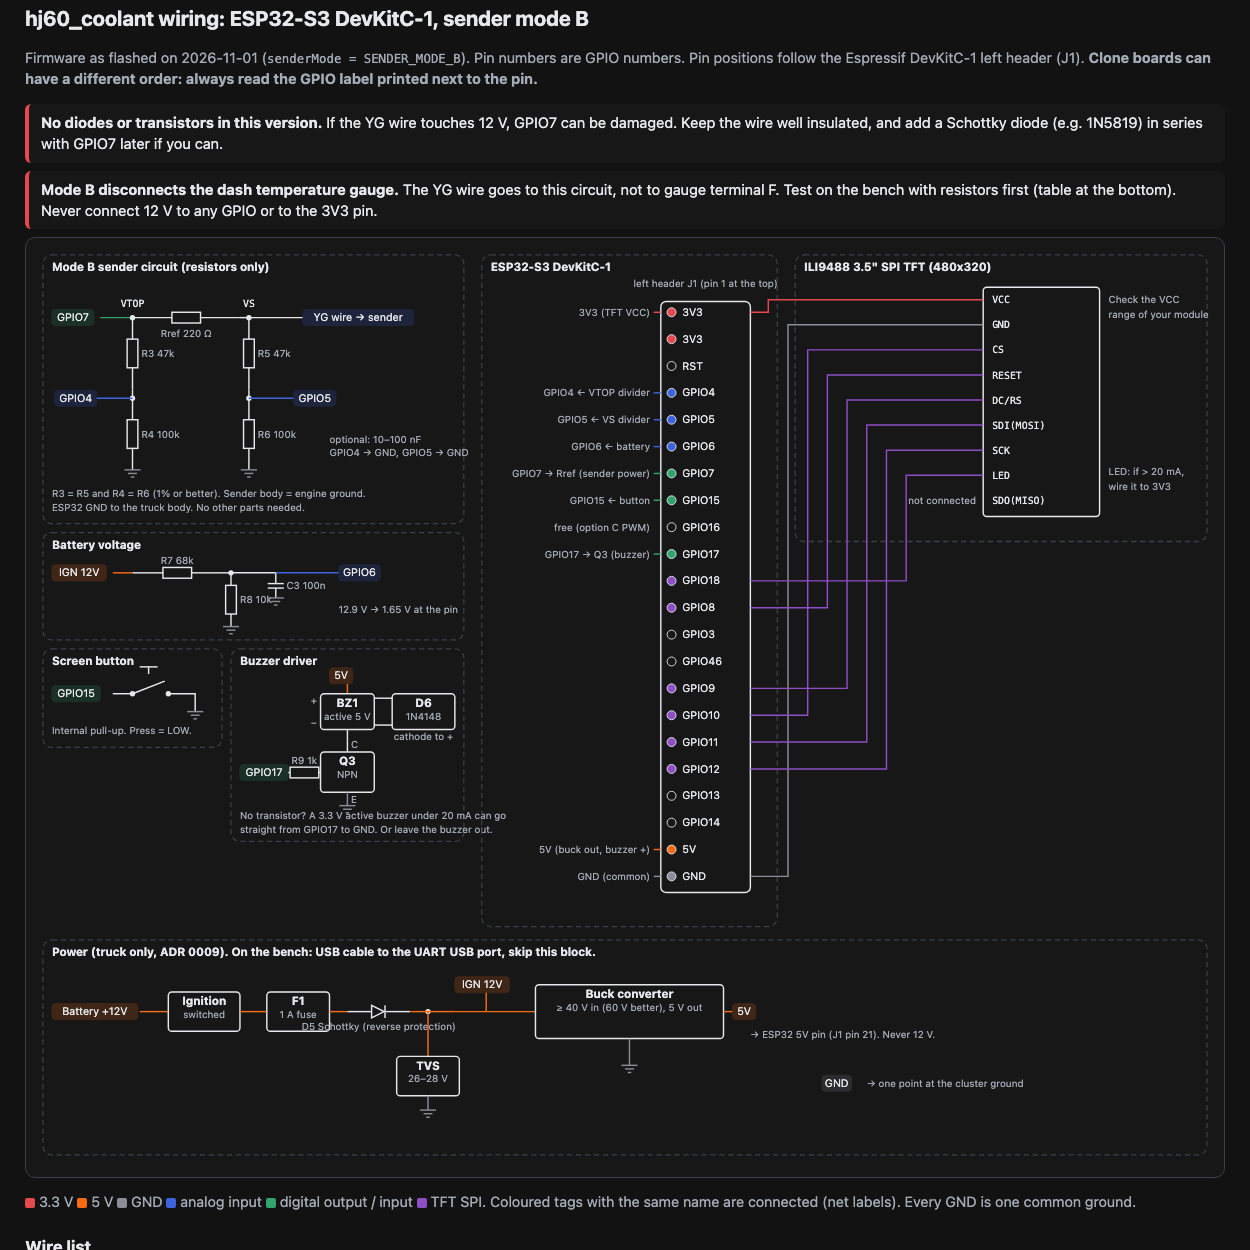
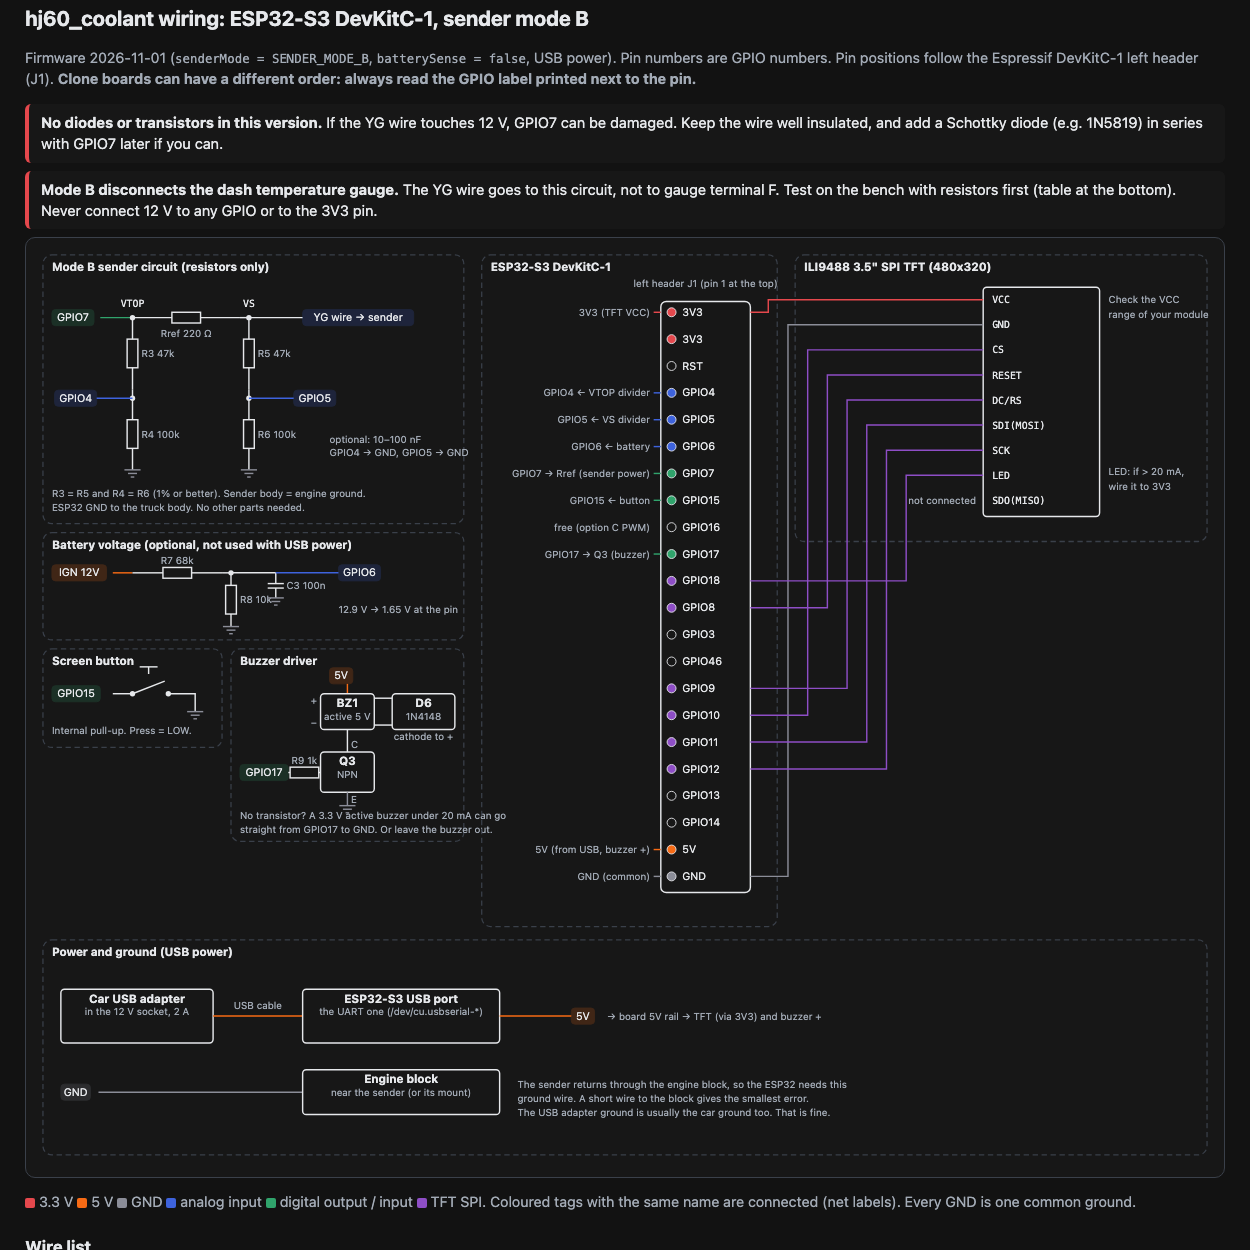
hj60_coolant: USB power; batterySense switch (default off), ground to engine block
Owner powers the ESP32 and TFT from a car USB adapter and shares the ground
with the sender. Without a battery divider the BATT tile now shows USB
instead of noise. Wiring diagram power block, hardware page, architecture
and README updated. 40 native tests, Wokwi PASS.

diff --git a/projects/hj60_coolant/docs/html/wiring-diagram.html b/projects/hj60_coolant/docs/html/wiring-diagram.html
@@ -44,7 +44,7 @@
 <body>
 <div class="wrap">
 <h1>hj60_coolant wiring: ESP32-S3 DevKitC-1, sender mode B</h1>
-<p class="sub">Firmware as flashed on 2026-11-01 (<code>senderMode = SENDER_MODE_B</code>). Pin numbers are GPIO numbers.
+<p class="sub">Firmware 2026-11-01 (<code>senderMode = SENDER_MODE_B</code>, <code>batterySense = false</code>, USB power). Pin numbers are GPIO numbers.
 Pin positions follow the Espressif DevKitC-1 left header (J1). <b>Clone boards can have a different order: always
 read the GPIO label printed next to the pin.</b></p>
 <div class="warn"><b>No diodes or transistors in this version.</b> If the YG wire touches 12 V, GPIO7 can be damaged.
@@ -79,17 +79,17 @@ Coloured tags with the same name are connected (net labels). Every GND is one co
   <tr><td>12</td><td>GPIO7</td><td>47 kΩ → GPIO4 → 100 kΩ → GND</td><td>Measures the GPIO7 side of Rref (Vtop).</td></tr>
   <tr><td>13</td><td>VS</td><td>47 kΩ → GPIO5 → 100 kΩ → GND</td><td>Measures the sender side (Vs). Use the same resistor values as wire 12, 1% or better.</td></tr>
   <tr><td>14</td><td>GPIO4, GPIO5</td><td>10–100 nF to GND (optional)</td><td>Reduces noise. Leave out if you have no capacitors.</td></tr>
-  <tr><td>15</td><td>IGN 12 V (after the fuse)</td><td>R7 68 kΩ → GPIO6 → R8 10 kΩ → GND</td><td>Plus C3 100 nF (optional). Battery voltage.</td></tr>
+  <tr><td>15</td><td>(optional) car 12 V, fused</td><td>R7 68 kΩ → GPIO6 → R8 10 kΩ → GND</td><td>Not needed with USB power. If you add it, set <code>batterySense = true</code> and flash again.</td></tr>
   <tr><td>16</td><td>GPIO15</td><td>Push button → GND</td><td>Next screen. Internal pull-up, no resistor needed.</td></tr>
   <tr><td>17</td><td>GPIO17</td><td>R9 1 kΩ → Q3 base</td><td>Q3 = NPN. Collector to buzzer −, emitter to GND.</td></tr>
   <tr><td>18</td><td>5V</td><td>Buzzer +</td><td>D6 1N4148 across the buzzer, cathode to +5 V.</td></tr>
-  <tr><td>19</td><td>Buck converter 5 V out</td><td>ESP32 5V pin</td><td>In the truck only. On the bench, use the USB port of the UART bridge.</td></tr>
-  <tr><td>20</td><td>ESP32 GND</td><td>Cluster ground</td><td>One ground point, near the instrument cluster.</td></tr>
+  <tr><td>19</td><td>Car USB adapter (12 V socket)</td><td>ESP32 USB port (the UART one)</td><td>Powers the ESP32 and the TFT. Use a 2 A adapter and a short data-quality cable.</td></tr>
+  <tr><td>20</td><td>ESP32 GND</td><td>Engine block, near the sender</td><td>Needed: the sender returns through the engine block. A short wire to the block (or the sender mount) gives the smallest error. A body ground also works if the engine ground strap is good.</td></tr>
 </table>
 
 <h2>Bench test without the truck</h2>
 <p class="sub">Power the board from USB. Connect a resistor between node VS (the YG wire end) and GND in place of the
-sender. The battery reads about 0 V without 12 V on wire 15, which is normal on the bench.</p>
+sender. The BATT tile shows USB, because <code>batterySense</code> is off.</p>
 <table>
   <tr><th>Resistor in place of the sender</th><th>Expected reading</th><th>State</th></tr>
   <tr><td>150 Ω</td><td>~61 °C</td><td>OK (your engine-warm measurement)</td></tr>
@@ -175,7 +175,7 @@ better. Readings within a few °C are normal before the step M5 calibration (<co
   txt(20, 280, 'R3 = R5 and R4 = R6 (1% or better). Sender body = engine ground.', 's');
   txt(20, 296, 'ESP32 GND to the truck body. No other parts needed.', 's');
 
-  block(10, 320, 470, 120, 'Battery voltage');
+  block(10, 320, 470, 120, 'Battery voltage (optional, not used with USB power)');
   net(20, 365, 'IGN 12V', C.v5);
   wire([[88, 365], [110, 365]], C.v5);
   res(110, 365, 210, 365, 'R7 68k');
@@ -226,7 +226,7 @@ better. Readings within a few °C are normal before the step M5 calibration (<co
     '6': ['GPIO6 ← battery', C.adc], '7': ['GPIO7 → Rref (sender power)', C.out], '15': ['GPIO15 ← button', C.out],
     '16': ['free (option C PWM)', null], '17': ['GPIO17 → Q3 (buzzer)', C.out], '18': ['TFT LED', C.spi], '8': ['TFT RESET', C.spi],
     '9': ['TFT DC/RS', C.spi], '10': ['TFT CS', C.spi], '11': ['TFT SDI (MOSI)', C.spi], '12': ['TFT SCK', C.spi],
-    '5V': ['5V (buck out, buzzer +)', C.v5], 'GND': ['GND (common)', C.gnd]
+    '5V': ['5V (from USB, buzzer +)', C.v5], 'GND': ['GND (common)', C.gnd]
   };
   const pinY = {};
   J1.forEach((p, i) => {
@@ -261,30 +261,21 @@ better. Readings within a few °C are normal before the step M5 calibration (<co
   txt(1200, 272, 'wire it to 3V3', 's');
 
   // ================= Power =================
-  block(10, 775, 1300, 240, 'Power (truck only, ADR 0009). On the bench: USB cable to the UART USB port, skip this block.');
-  const py = 855;
-  net(20, py, 'Battery +12V', C.v5);
-  wire([[118, py], [150, py]], C.v5);
-  box(150, py - 22, 80, 44, 'Ignition', 'switched');
-  wire([[230, py], [260, py]], C.v5);
-  box(260, py - 22, 70, 44, 'F1', '1 A fuse');
-  wire([[330, py], [350, py]], C.v5);
-  diode(350, py, 420, 'D5 Schottky (reverse protection)', true);
-  dot(440, py); wire([[420, py], [440, py]], C.v5);
-  wire([[440, py], [440, py + 50]], C.v5);
-  box(405, py + 50, 70, 44, 'TVS', '26–28 V');
-  wire([[440, py + 94], [440, py + 110]], C.gnd); gnd(440, py + 110);
-  wire([[440, py], [470, py]], C.v5);
-  net(470, py - 30, 'IGN 12V', C.v5);
-  wire([[505, py - 21], [505, py]], C.v5);
-  wire([[470, py], [560, py]], C.v5);
-  box(560, py - 30, 210, 60, 'Buck converter', '≥ 40 V in (60 V better), 5 V out');
-  wire([[770, py], [780, py]], C.v5);
-  net(780, py, '5V', C.v5);
-  txt(800, py + 30, '→ ESP32 5V pin (J1 pin 21). Never 12 V.', 's');
-  wire([[665, py + 30], [665, py + 60]], C.gnd); gnd(665, py + 60);
-  net(880, py + 80, 'GND', C.gnd);
-  txt(930, py + 84, '→ one point at the cluster ground', 's');
+  block(10, 775, 1300, 240, 'Power and ground (USB power)');
+  const py = 860;
+  box(30, py - 30, 170, 60, 'Car USB adapter', 'in the 12 V socket, 2 A');
+  wire([[200, py], [300, py]], C.v5);
+  txt(250, py - 8, 'USB cable', 's', 'middle');
+  box(300, py - 30, 220, 60, 'ESP32-S3 USB port', 'the UART one (/dev/cu.usbserial-*)');
+  wire([[520, py], [600, py]], C.v5);
+  net(600, py, '5V', C.v5);
+  txt(640, py + 4, '→ board 5V rail → TFT (via 3V3) and buzzer +', 's');
+  net(30, py + 85, 'GND', C.gnd);
+  wire([[72, py + 85], [300, py + 85]], C.gnd);
+  box(300, py + 60, 220, 50, 'Engine block', 'near the sender (or its mount)');
+  txt(540, py + 80, 'The sender returns through the engine block, so the ESP32 needs this', 's');
+  txt(540, py + 96, 'ground wire. A short wire to the block gives the smallest error.', 's');
+  txt(540, py + 112, 'The USB adapter ground is usually the car ground too. That is fine.', 's');
 })();
 </script>
 </body>

diff --git a/projects/hj60_coolant/emulator/native/truck_model.h b/projects/hj60_coolant/emulator/native/truck_model.h
@@ -6,6 +6,7 @@
 float ohmsToC(float rs);  // from the sketch
 enum SenderMode { SENDER_MODE_A, SENDER_MODE_B };
 extern SenderMode senderMode;
+extern bool batterySense;
 
 const int FEED = 4, SENDER = 5, BUZZER = 17, EXCITE = 7, BATT = 6, BUTTON = 15;  // ESP32-S3 pins
 const double RG = 25.0, RATIO = 7.8, RREF = 220.0, BDIV = 1.47;
@@ -81,13 +82,16 @@ struct DirectTruck {
 inline Truck truck;
 inline DirectTruck direct;
 
+// The tests wire the battery divider unless a test turns it off.
 inline void attach() {
   senderMode = SENDER_MODE_A;
+  batterySense = true;
   sim::analogMvFn = [](uint8_t pin) { return truck.read(pin); };
 }
 
 inline void attachB() {
   senderMode = SENDER_MODE_B;
+  batterySense = true;
   sim::analogMvFn = [](uint8_t pin) { return direct.read(pin); };
 }
 

diff --git a/projects/hj60_coolant/emulator/native/test_ui.cpp b/projects/hj60_coolant/emulator/native/test_ui.cpp
@@ -101,3 +101,16 @@ TEST(ui_values_redraw_only_on_change) {
   sim::runFor(3000);
   CHECK_EQ(tftmock::fullClears, clears);      // no full-screen redraw while nothing changes screens
 }
+
+TEST(ui_usb_power_without_battery_divider) {
+  attachB();
+  batterySense = false;
+  direct.rs = ohmsFor(90.0);
+  setup();
+  sim::runFor(4700);
+  CHECK_CONTAINS(scr(), "SENDER OK  USB POWER");
+  sim::runFor(1800);
+  CHECK_CONTAINS(scr(), "\nUSB\n");
+  CHECK_CONTAINS(lastLine(), "Batt:--");
+}
+

diff --git a/projects/hj60_coolant/docs/README.md b/projects/hj60_coolant/docs/README.md
@@ -13,8 +13,9 @@ Common parts:
 | 1 | ILI9488 3.5" 480x320 SPI TFT | 3.3 V logic. MISO not connected. Check the LED pin: if the module has no backlight transistor, drive it through an NPN or MOSFET (60–100 mA). |
 | 1 | Momentary push button | GPIO15 to ground. Internal pull-up. |
 | 1 | Active buzzer 5 V + NPN (2N2222 / S8050) + 1 kΩ base resistor + 1N4148 across the buzzer | Buzzer driver |
-| 1 | 68 kΩ + 10 kΩ (0.1%) + 100 nF + BAT54S | Battery voltage divider to GPIO6 |
-| 1 | 12 V → 5 V automotive front end | See [ADR 0009](../../../docs/adr/0009-hj60-12v-power-front-end.md): 1 A fuse, reverse protection, TVS (standoff ~26–28 V), buck rated ≥ 40 V in (60 V preferred) |
+| 1 | Car USB adapter (12 V socket, 2 A) + USB cable | Powers the ESP32 and the TFT through the board's UART USB port |
+| (optional) | 68 kΩ + 10 kΩ + 100 nF | Battery voltage divider to GPIO6. Only with `batterySense = true`. |
+| (optional) | 12 V → 5 V automotive front end | Only if you hard-wire to 12 V later. See [ADR 0009](../../../docs/adr/0009-hj60-12v-power-front-end.md). |
 | - | Locking connectors, soldered perfboard, strain relief | No breadboard or Dupont in the truck |
 
 Sender circuit, **mode B** (direct, default in the sketch). Resistors only, no diodes or transistors:
@@ -89,9 +90,17 @@ Rules:
 - Mode B: check the backfeed fault on the bench. Connect the YG wire to 12 V through a 1 kΩ resistor. The screen must
   show "WIRE HAS VOLTAGE".
 
-## Power
+## Power and ground
 
-12 V truck, one battery: 12.9 V engine off, 14.0 V running. Ignition switched, through the front end in ADR 0009.
+- **USB power** (owner's choice, 2026-11-01): a car USB adapter in the 12 V socket powers the ESP32 and the TFT
+  through the board's UART USB port. No 12 V wiring to the board.
+- **Ground:** connect ESP32 GND to the engine block near the sender (or the sender mount). The sender returns its
+  current through the engine block, so the circuit is not complete without this wire. A short wire to the block gives
+  the smallest error. The USB adapter's ground is usually the car ground too, and that is fine.
+- **Battery tile:** shows "USB" because `batterySense = false`. To show the battery voltage, wire the 68k/10k divider
+  from a fused 12 V point to GPIO6, set `batterySense = true`, and flash again.
+- The truck is 12 V, one battery: 12.9 V engine off, 14.0 V running. A cranking dip can reset the USB adapter. The
+  ESP32 then restarts in about a second.
 
 ## Sim vs real differences
 

diff --git a/projects/hj60_coolant/README.md b/projects/hj60_coolant/README.md
@@ -20,7 +20,8 @@ Wokwi screenshots (ILI9341 320x240 stand-in, taken on the classic ESP32 before t
 | Emulator board | ESP32-S3 DevKitC-1 (`esp32:esp32:esp32s3`) |
 | Serial | 115200 baud |
 | Parts | ILI9488 3.5" SPI TFT, sender circuit for mode A or B on GPIO4/35 (+GPIO7 in B), battery divider (GPIO6), button (GPIO15), active buzzer via NPN (GPIO17). Pins: [docs/README.md](docs/README.md) |
-| Status | 39 native tests and the Wokwi mode B scenario pass. RPM and speed are DEMO values. Not on the truck yet: needs measurements M0–M6 ([report](docs/gauge-tap-report.md#6-plan)). **Don't trust WARN/ALARM until the M4 sender calibration** (two-point curve, ±10 °C near 100 °C) |
+| Power | USB (car USB adapter). ESP32 GND to the engine block. `batterySense = false` |
+| Status | 40 native tests and the Wokwi mode B scenario pass. RPM and speed are DEMO values. Not on the truck yet: needs measurements M0–M6 ([report](docs/gauge-tap-report.md#6-plan)). **Don't trust WARN/ALARM until the M4 sender calibration** (two-point curve, ±10 °C near 100 °C) |
 | Idea | [docs/ideas/2026-11-01-hj60-coolant.md](../../docs/ideas/2026-11-01-hj60-coolant.md) |
 
 ## Folders

diff --git a/projects/hj60_coolant/docs/architecture.md b/projects/hj60_coolant/docs/architecture.md
@@ -56,6 +56,7 @@ Faults sound a double chirp every 5 s.
 | Constant | Default | Source / step |
 |---|---|---|
 | `senderMode` | `SENDER_MODE_B` | Owner choice. A keeps the dash gauge working. |
+| `batterySense` | `false` | USB power: the BATT tile shows USB. `true` only with the GPIO6 divider wired. |
 | `GAUGE_R_OHMS` | 25.0 | A: FSM 13-74, measure (M1) |
 | `REF_R_OHMS` | 220.0 | B: Rref, 1% or better |
 | `SENDER_R0/T0`, `SENDER_R1/T1` | 226 Ω @ 50 °C, 26 Ω @ 115 °C | FSM 13-74, calibrate (M4) |
